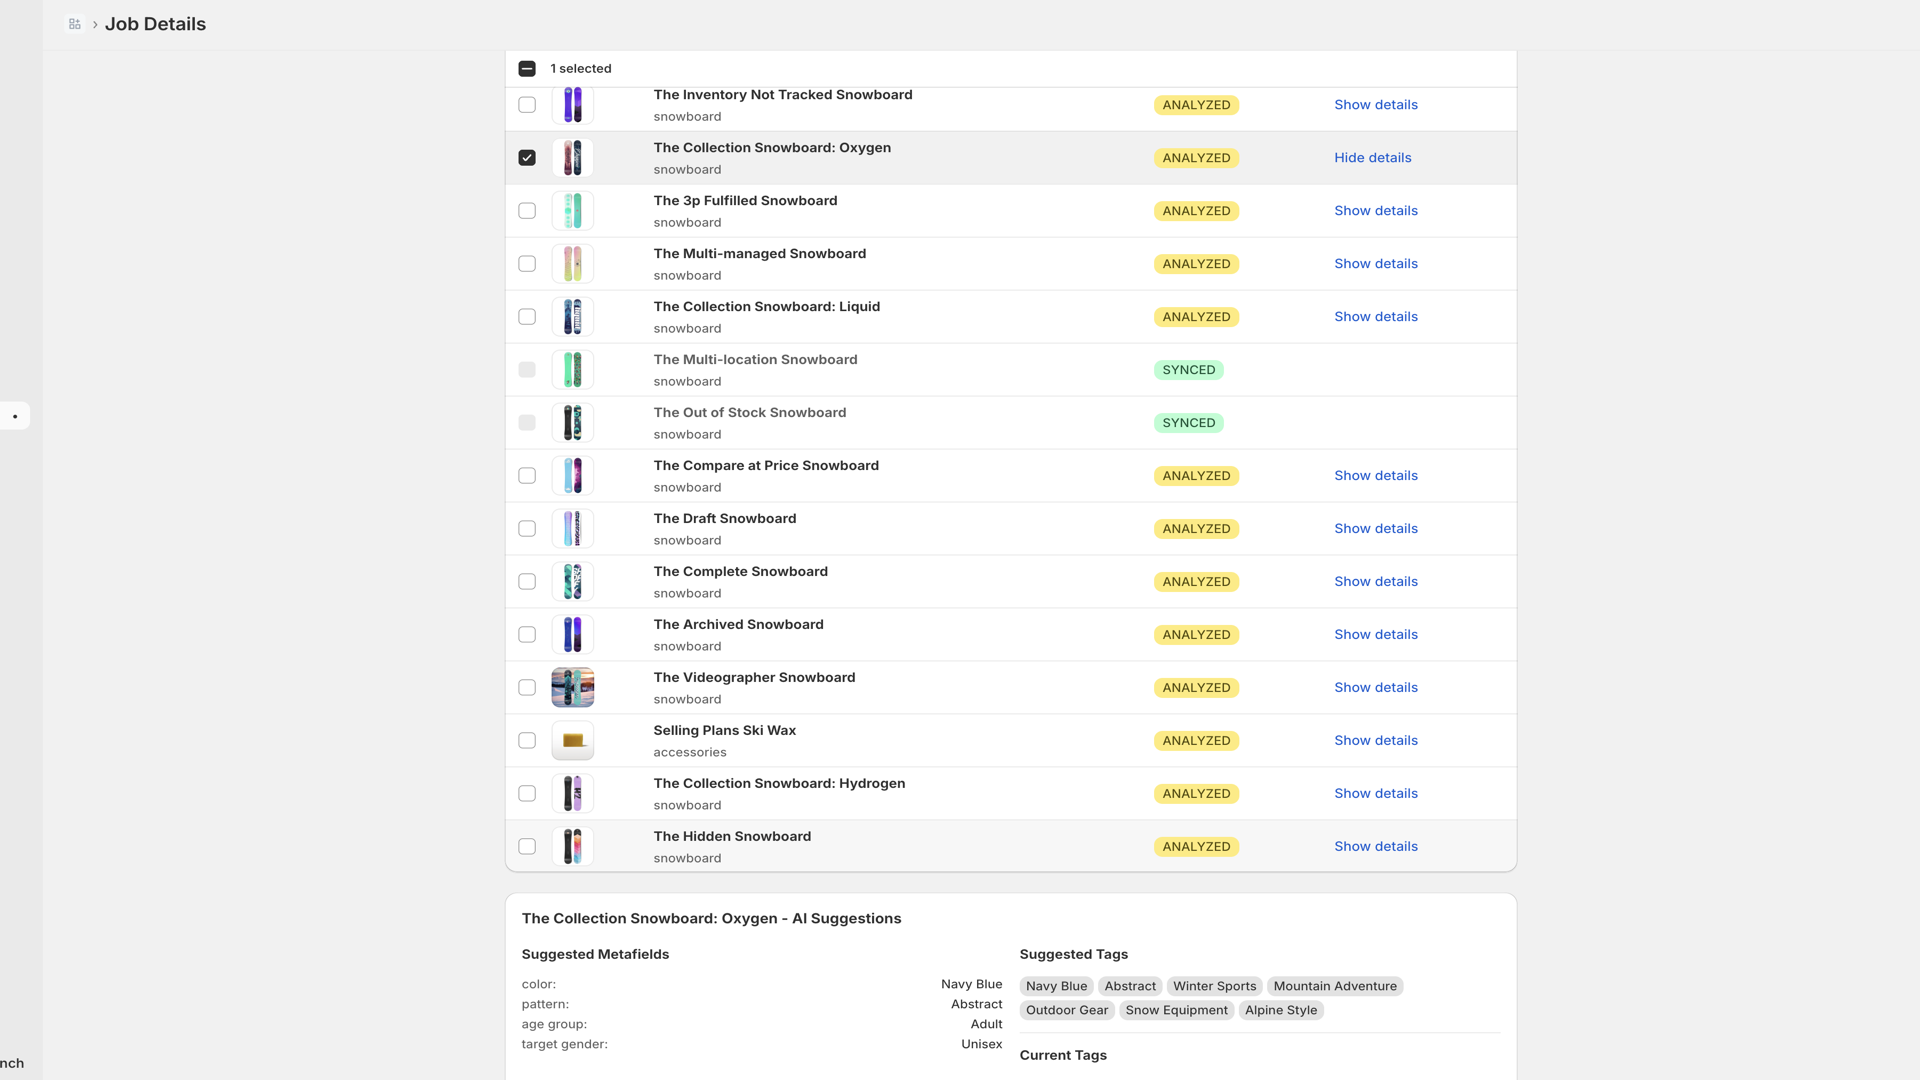
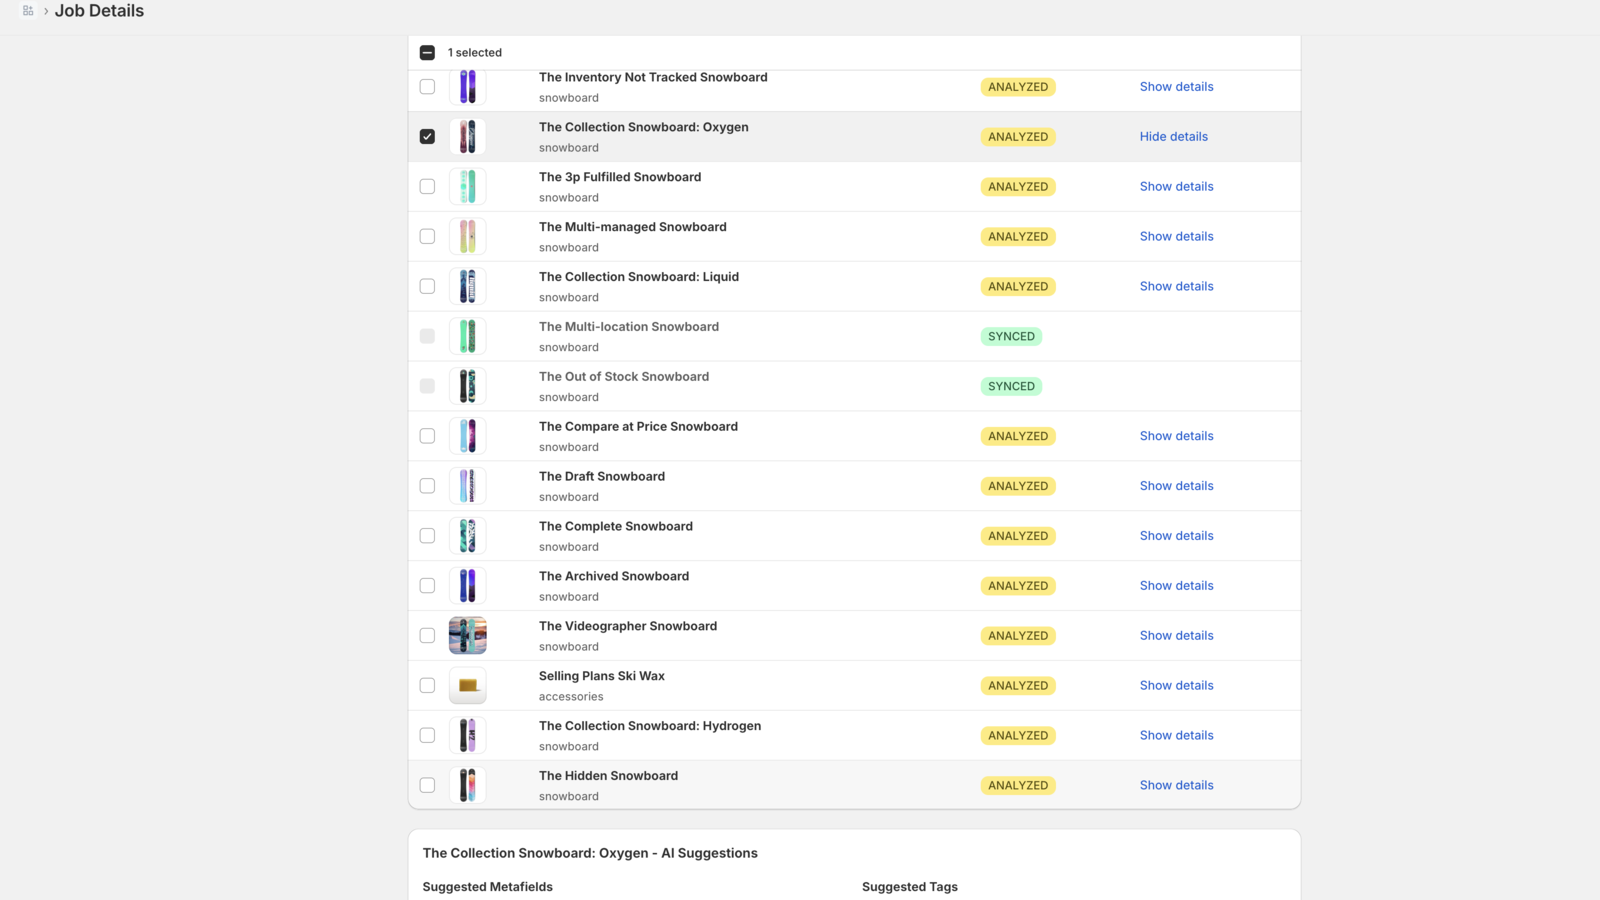
Update screenshots and shorten demo video
- Crop screenshots to 1600x900 for Shopify App Store requirements
- Remove Shopify sidebar and search bar from screenshots
- Add high-res originals backup in screenshots/originals/
- Shorten video from 60s to 40s for better pacing
- Fix DashboardScene overlay positioning

diff --git a/remotion/src/Video.tsx b/remotion/src/Video.tsx
@@ -14,33 +14,33 @@ export const DemoVideo: React.FC = () => {
       }}
     >
       <Series>
-        {/* Scene 1: Opening Hook (0-5s = 150 frames) */}
-        <Series.Sequence durationInFrames={150}>
+        {/* Scene 1: Opening Hook (~3s) */}
+        <Series.Sequence durationInFrames={100}>
           <OpeningScene />
         </Series.Sequence>
 
-        {/* Scene 2: Dashboard Overview (5-15s = 300 frames) */}
-        <Series.Sequence durationInFrames={300}>
+        {/* Scene 2: Dashboard Overview (~6s) */}
+        <Series.Sequence durationInFrames={180}>
           <DashboardScene />
         </Series.Sequence>
 
-        {/* Scene 3: AI Processing (15-25s = 300 frames) */}
-        <Series.Sequence durationInFrames={300}>
+        {/* Scene 3: AI Processing (~7s) */}
+        <Series.Sequence durationInFrames={210}>
           <ProcessingScene />
         </Series.Sequence>
 
-        {/* Scene 4: Results Preview (25-40s = 450 frames) */}
-        <Series.Sequence durationInFrames={450}>
+        {/* Scene 4: Results Preview (~10s) */}
+        <Series.Sequence durationInFrames={300}>
           <ResultsScene />
         </Series.Sequence>
 
-        {/* Scene 5: Sync Action (40-50s = 300 frames) */}
-        <Series.Sequence durationInFrames={300}>
+        {/* Scene 5: Sync Action (~6s) */}
+        <Series.Sequence durationInFrames={180}>
           <SyncScene />
         </Series.Sequence>
 
-        {/* Scene 6: Closing CTA (50-60s = 300 frames) */}
-        <Series.Sequence durationInFrames={300}>
+        {/* Scene 6: Closing CTA (~8s) */}
+        <Series.Sequence durationInFrames={230}>
           <ClosingScene />
         </Series.Sequence>
       </Series>

diff --git a/remotion/src/scenes/DashboardScene.tsx b/remotion/src/scenes/DashboardScene.tsx
@@ -82,13 +82,26 @@ const BottomCallout: React.FC<{ delay: number }> = ({ delay }) => {
 export const DashboardScene: React.FC = () => {
   return (
     <AbsoluteFill>
-      {/* Screenshot with pan-zoom animation */}
-      <ScreenshotFrame
-        src="screenshots/visiontags-dashboard.png"
-        animation="panZoom"
-        width={1600}
-        height={900}
-      />
+      {/* Screenshot with pan-zoom animation - positioned lower to avoid header overlap */}
+      <div
+        style={{
+          position: "absolute",
+          top: 120,
+          left: 0,
+          right: 0,
+          bottom: 0,
+          display: "flex",
+          justifyContent: "center",
+          alignItems: "center",
+        }}
+      >
+        <ScreenshotFrame
+          src="screenshots/visiontags-dashboard.png"
+          animation="panZoom"
+          width={1500}
+          height={820}
+        />
+      </div>
 
       {/* Text overlay at top */}
       <TopOverlay delay={30} />

diff --git a/remotion/src/Root.tsx b/remotion/src/Root.tsx
@@ -7,7 +7,7 @@ export const RemotionRoot: React.FC = () => {
       <Composition
         id="DemoVideo"
         component={DemoVideo}
-        durationInFrames={1800} // 60 seconds at 30fps
+        durationInFrames={1200} // 40 seconds at 30fps
         fps={30}
         width={1920}
         height={1080}
